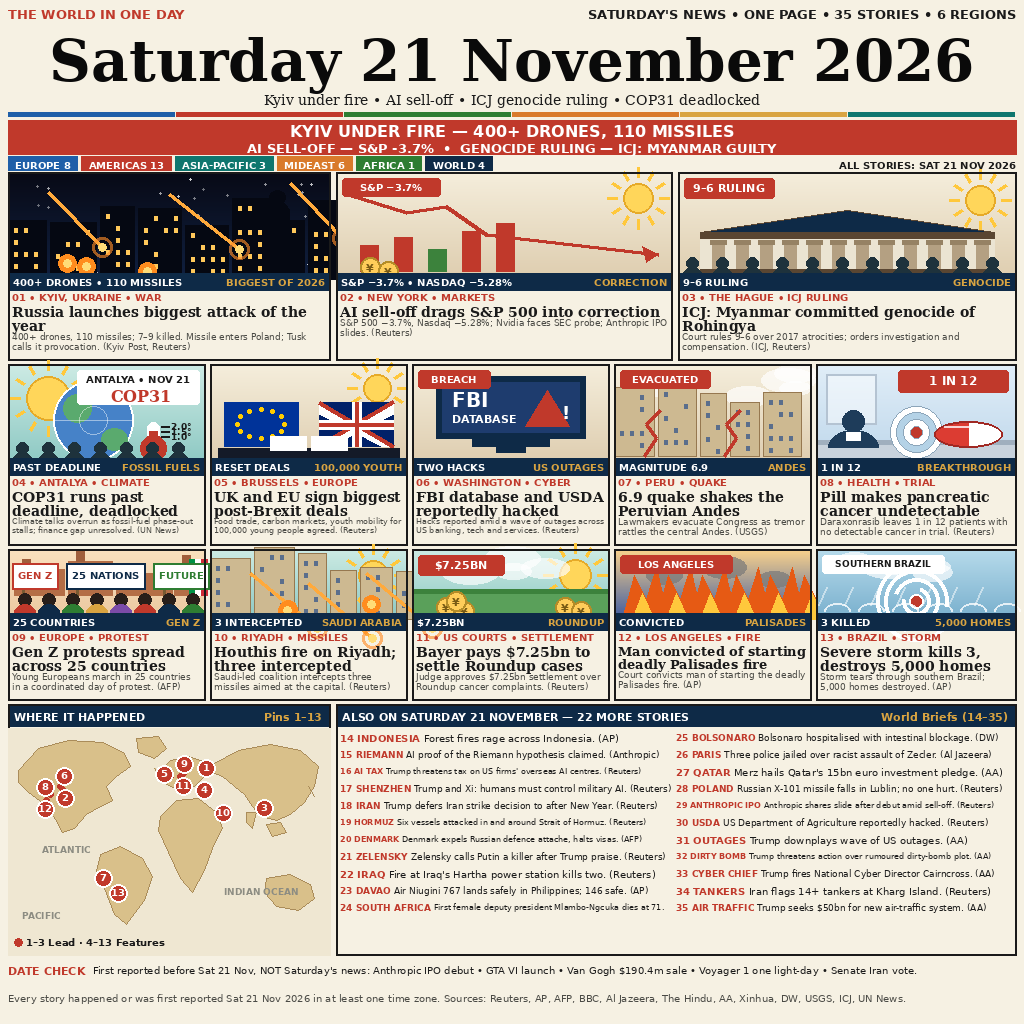
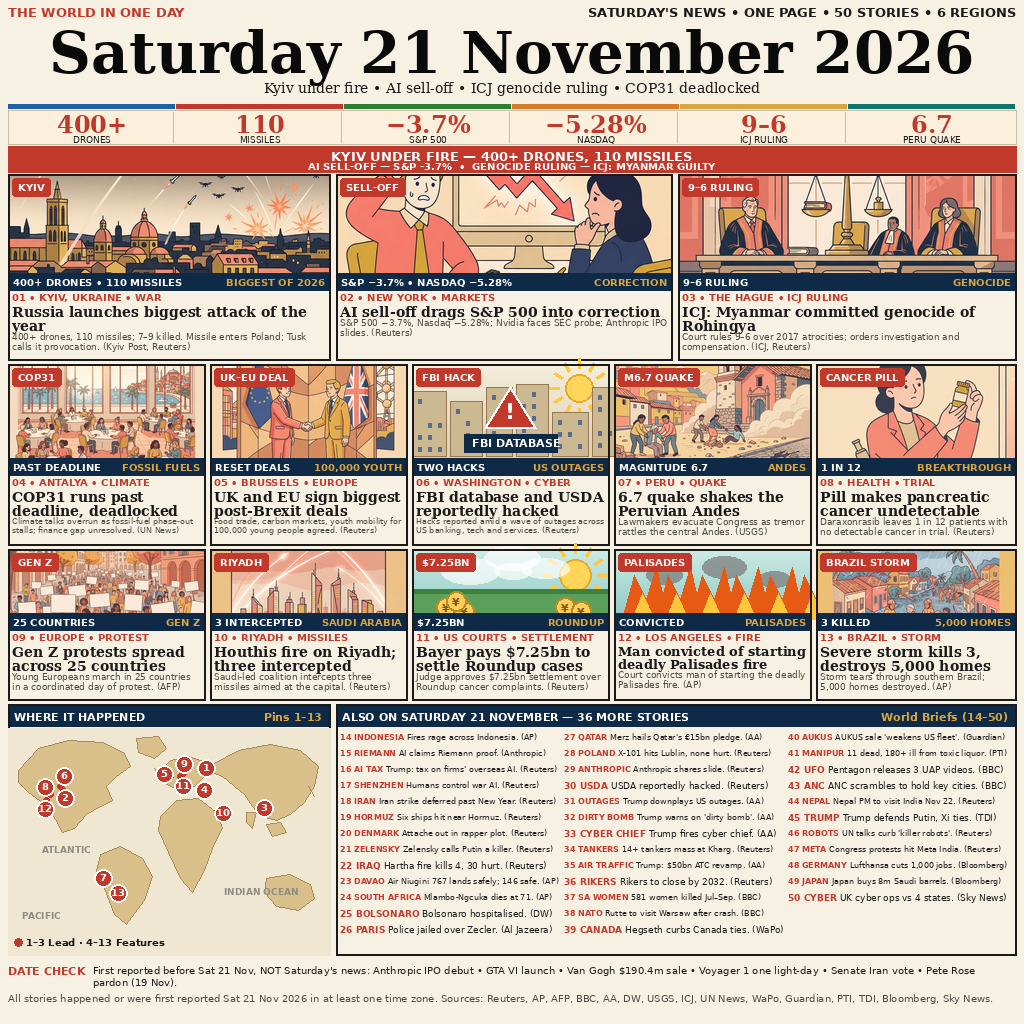
news-image-20261121 v3: 50 stories, Saturday 21 November 2026

diff --git a/README.md b/README.md
@@ -4,13 +4,13 @@
 [![rank](https://make.fun/badge/news-image-20261121/jonjet155/news-image-20261121/rank.svg)](https://make.fun/bounty/news-image-20261121/leaderboard?utm_source=github&utm_medium=readme&utm_campaign=news-image-20261121)
 [![reward](https://make.fun/badge/news-image-20261121/jonjet155/news-image-20261121/reward.svg)](https://make.fun/bounty/news-image-20261121?utm_source=github&utm_medium=readme&utm_campaign=news-image-20261121)
 
-Sum up 21 November's world news in one image: one page, 35 dated stories
+Sum up 21 November's world news in one image: one page, 50 dated stories
 from Saturday 21 November 2026 — Kyiv under fire in Russia's biggest
 attack of the year, the AI sell-off dragging the S&P 500 into correction,
 and the ICJ's 9–6 ruling that Myanmar committed genocide against the
 Rohingya — plus COP31 overtime, the UK–EU reset deals, the Peru quake,
 a pancreatic-cancer pill breakthrough, Gen Z protests in 25 countries,
-and 22 more briefs, on a light world map with declustered pins.
+and 36 more briefs, on a light world map with declustered pins.
 
 ## Run it
 
